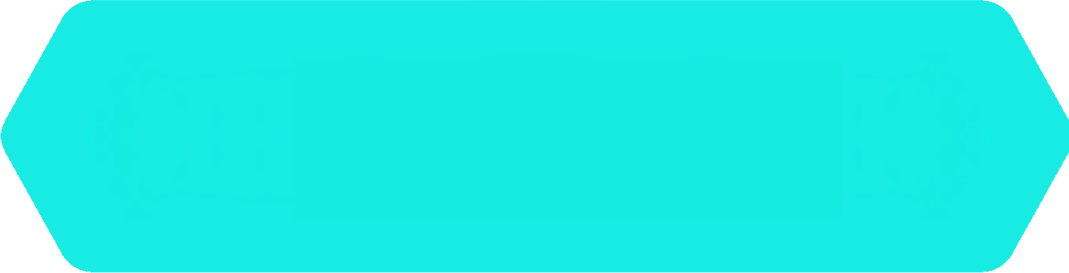
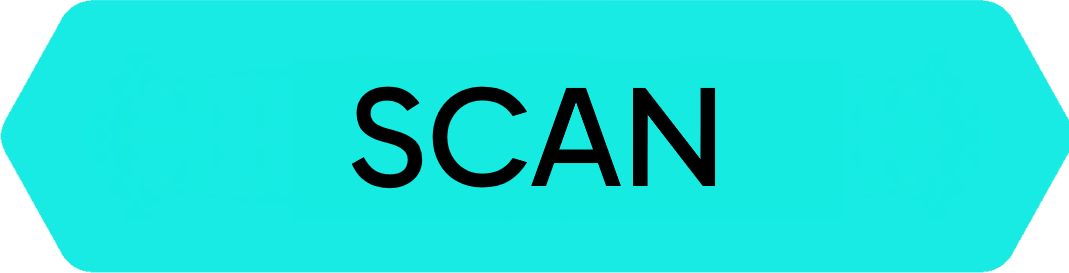
Scan Button
.

Changed region(s): [[0.3087, 0.293, 0.6791, 0.7033]]

diff --git a/style.css b/style.css
@@ -9,7 +9,7 @@
 body {
     background: linear-gradient(to right, #07263A, #398D9F);
     font-family: 'Poppins', sans-serif;
-    color: #E4EAEC;
+    color: #bffaf7;
 }
 /* Navigation */
 .navigation-container {
@@ -17,7 +17,6 @@ body {
     height: 33%;
     display: flex;
     align-items: center;
-    color: #A9BBC3;
 }
 
 .home-page-nav-bar {
@@ -38,7 +37,7 @@ body {
 
 .navigation-container ul li a {
     text-decoration: none;
-    color: #A9BBC3;
+    color: #bffaf7;
 }
 
 .home-page-logo {
@@ -156,9 +155,9 @@ body {
     display: flex;
     align-items: center;
     justify-content: center;
-    width: 70%;
+    text-align: center;
     height: 15vh;
-    font-size: 1.5vh;
+    font-size: 2vh;
     
 }
 .upload-file-more-info p {
@@ -207,4 +206,80 @@ body {
     background: linear-gradient(to right, #011929, #152D47 );
     width: 100%;
     height: 15vh;
+}
+.home-page-logo{
+    font-size: 2.25vh;
+}
+.home-page-logo img{
+    padding-left: 2.5vw;
+    width: 5vh;
+}
+
+
+/* Styles for the hero section */
+.hero {
+    width: 75%;
+    height: 40%;
+    display: flex;
+    flex-direction: column;
+    align-items: center;
+    justify-content: center;
+    text-align: center;
+    margin-bottom: 5vh;
+}
+
+.hero p{
+    font-size: 12px;
+}
+.hero-p-big{
+    font-size: 15px;
+}
+
+
+
+.home-content-container h1{
+    font-weight: 200;
+}
+.home-content-container button{
+    margin-top: 1.5vh;
+    font-weight: 100;
+    border-radius: 15px;
+}
+/* Styles for the image */
+.hero img {
+    width: 42vw;
+    height: 18vw;
+}
+
+/* Styles for the button */
+.hero label {
+    cursor: pointer;
+    display: block;
+    width: 80%;
+    background: #17eae2;
+    color: #000000;
+}
+
+/* Hiding input elements */
+.hero input {
+    display: none;
+}
+.scan-button{
+    z-index: 4;
+    cursor: pointer;
+    width: 15vw;
+    background: #17eae2;
+    color: #000000;
+        padding: 10px;
+        margin: 25px;
+    border-radius: 20px;
+    text-align: center;
+}
+.scan-button-two{
+    width: 15vw;
+    height: 7.5vh;
+    z-index: 4;
+}
+.scan-button:hover{
+    cursor: pointer;
 }

diff --git a/index.html b/index.html
@@ -11,6 +11,7 @@
     <div class="container-one">
         <div class="navigation-container">
             <div class="home-page-logo">
+                <img src="./Assets/Logo.png" alt="">
                 <h1>ScanAI</h1>
             </div>
             <div class="home-page-nav-bar">
@@ -36,25 +37,19 @@
         <!-- Home Content Container -->
         <div class="home-content-container">
 
-            <div class="drag-file-container">
-                <!-- Drag and Drop Area -->
-                
-                <div id="drop-area" ondrop="dropHandler(event);" ondragover="dragOverHandler(event);">
-                    <img src="./Assets/CloudIcon.png" alt="">
-                    <p>Drag a file here</p>
-                    <p>Permitted file types: .dicom, .jpeg, .png</p>
-                </div>
-                
-            </div>
-            <!-- Additional Information and Background -->
             <div class="upload-file-more-info">
                 <p>Our Machine Learning Model will look for medical problems such as fractures, scoliosis, and dysphagia</p>
-                <button id="more-info-button" onclick="test()">More Info</button>
             </div>
-            <div class="rectangle-image"></div>
-            <div>Note: ScanAI will occasionally make errors. We are always refining our model to find new ways to improve.</div>
-            <button id="scan-button" class="home-page-scan-button">SCAN</button>
 
+            <div class="hero">
+                <div class="card">
+                    <h1>Upload an MRI</h1> <!-- Heading within the card -->
+                    <img src="./Assets/DragFileIMG.png"> <!-- Placeholder image source -->
+                    <input type="file" accept="image/jpeg, image/png, image/jpg" id="input-file"> <!-- File input for selecting images -->
+                </div>
+            </div>
+            <label class="scan-button" for="input-file">Add file</label> <!-- Label for the file input -->
+            <img class="scan-button-two" src="./Assets/Button.png" alt="">
             
         </div>
     </div>

diff --git a/card.html b/card.html
@@ -1,0 +1,32 @@
+<!DOCTYPE html>
+<html>
+<head>
+    <meta name="viewport" content="width=device-width, initial-scale=1.0"> <!-- Setting the viewport for responsiveness -->
+    <title>ScanAI Upload Image Test</title> <!-- Title of the HTML document -->
+    <link rel="stylesheet" href="style.css"> <!-- Linking an external stylesheet named "style.css" -->
+</head>
+<body>
+
+    <div class="hero">
+        <div class="card">
+            <h1>Upload an MRI</h1> <!-- Heading within the card -->
+            <img src="UploadImage.png"> <!-- Placeholder image source -->
+            <label for="input-file">Add file</label> <!-- Label for the file input -->
+            <input type="file" accept="image/jpeg, image/png, image/jpg" id="input-file"> <!-- File input for selecting images -->
+        </div>
+    </div>
+
+    <script> // JavaScript
+
+        let profilePic = document.querySelector(".card img"); // Selecting the image element within the card
+        let inputFile = document.getElementById("input-file"); // Getting the file input element by its ID
+
+        inputFile.onchange = function(){
+            profilePic.src = URL.createObjectURL(inputFile.files[0]); // Changing the source of the image to the selected file
+            // TODO: send the image to the model. This will be simple and we will work on this as a team
+        }
+
+    </script>
+
+</body>
+</html>

diff --git a/script.js b/script.js
@@ -1,3 +1,10 @@
-function test(){
-    console.log("Test");
-}
+ // JavaScript
+
+ let profilePic = document.querySelector(".card img"); // Selecting the image element within the card
+ let inputFile = document.getElementById("input-file"); // Getting the file input element by its ID
+
+ inputFile.onchange = function(){
+     profilePic.src = URL.createObjectURL(inputFile.files[0]); // Changing the source of the image to the selected file
+     // TODO: send the image to the model. This will be simple and we will work on this as a team
+ }
+
